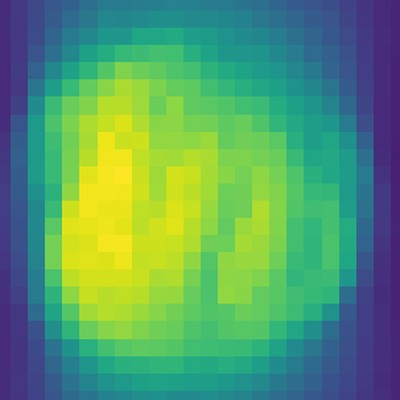
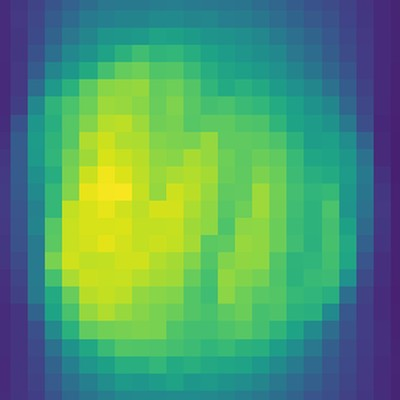
Docs: hidden-object reconstruction with the prototype's exact settings
The laser points and the detection-ellipse samples now come from the
prototype's closed form (the spheroid-wall intersection at equal parametric
angles, identical to its points), the sample counts are its fixed 500 / 52 /
38 / 32 (frame times measured, not matched: 5.3 / 5.3 / 5.9 / 5.3 ms on an
RTX 3090), ToF ReSTIR caps Newton at 5 iterations and the V-buffer alpha-tests,
as in the prototype. Median scores 0.0019 / 0.0174 / 0.0167 / 0.0174: on dev,
ellipsoidal path tracing samples densely enough to reconstruct the dragon as
well as the reuse renderers.

diff --git a/docs_falcorcomp/src/applications/code/nlos_reconstruction.py b/docs_falcorcomp/src/applications/code/nlos_reconstruction.py
@@ -37,19 +37,30 @@ def path_length(voxel):
 
 
 def ellipse_on_wall(focus, length, count):
-    """count points W of the wall z = 0 with |ORIGIN - W| + |W - focus| = length, at equal angles around the wall
-    point where this sum is smallest; each found by bisection along its direction."""
-    t = ORIGIN[2] / (ORIGIN[2] + focus[2])
-    center = np.array([ORIGIN[0] + t * (focus[0] - ORIGIN[0]), ORIGIN[1] + t * (focus[1] - ORIGIN[1]), 0.0])
-    angles = 2.0 * np.pi * np.arange(count) / count
-    directions = np.stack([np.cos(angles), np.sin(angles), np.zeros(count)], axis=1)
-    near, far = np.zeros(count), np.full(count, length)
-    for _ in range(50):
-        middle = 0.5 * (near + far)
-        points = center + middle[:, None] * directions
-        inside = np.linalg.norm(points - ORIGIN, axis=1) + np.linalg.norm(points - focus, axis=1) < length
-        near, far = np.where(inside, middle, near), np.where(inside, far, middle)
-    return center + near[:, None] * directions
+    """count points W of the wall z = 0 with |ORIGIN - W| + |W - focus| = length: the intersection of the wall with
+    the spheroid of foci ORIGIN and focus, at equal parametric angles of the ellipse."""
+    axis = focus - ORIGIN
+    distance = np.linalg.norm(axis)
+    semi_major = 0.5 * length
+    semi_minor_sq = semi_major ** 2 - (0.5 * distance) ** 2
+    # The spheroid as (X - M)^T A (X - M) = 1, in a frame whose z axis joins the foci.
+    z_axis = axis / distance
+    helper = np.array([1.0, 0.0, 0.0]) if abs(z_axis[0]) <= 0.9 else np.array([0.0, 1.0, 0.0])
+    x_axis = helper - np.dot(helper, z_axis) * z_axis
+    x_axis /= np.linalg.norm(x_axis)
+    rotation = np.stack([x_axis, np.cross(z_axis, x_axis), z_axis], axis=1)
+    A = rotation @ np.diag([1 / semi_minor_sq, 1 / semi_minor_sq, 1 / semi_major ** 2]) @ rotation.T
+    middle = 0.5 * (ORIGIN + focus)
+    # On the wall z = 0: u^T B u + 2 g^T u + k = 0 with u = (x, y), an ellipse with center c and axes from B.
+    B, b, a = A[:2, :2], A[:2, 2], A[2, 2]
+    g = -(B @ middle[:2]) - middle[2] * b
+    k = middle[:2] @ B @ middle[:2] + 2 * middle[2] * (b @ middle[:2]) + middle[2] ** 2 * a - 1.0
+    center = -np.linalg.solve(B, g)
+    eigenvalues, eigenvectors = np.linalg.eigh(B / -(k - g @ np.linalg.solve(B, g)))
+    radii = 1.0 / np.sqrt(eigenvalues)
+    angles = np.linspace(0.0, 2.0 * np.pi, count, endpoint=False)
+    uv = center + np.stack([radii[0] * np.cos(angles), radii[1] * np.sin(angles)], axis=1) @ eigenvectors.T
+    return np.column_stack([uv, np.zeros(count)])
 
 
 def to_pixels(points):
@@ -86,14 +97,15 @@ METHODS = {
     "Ellipsoidal + naive reuse": ("TimeGatedReSTIRInline",
                                   {"samplingMethod": "ellipsoidal", **REUSE, "shiftMappingMethod": "no"}),
     "Ellipsoidal + ToF ReSTIR": ("TimeGatedReSTIRInline",
-                                 {"samplingMethod": "ellipsoidal", **REUSE, "shiftMappingMethod": "ray_trace"}),
+                                 {"samplingMethod": "ellipsoidal", **REUSE, "shiftMappingMethod": "ray_trace",
+                                  "NewtonMaxIteration": 5}),
 }
 
 
 def create_graph(method, spp):
     tracer, options = METHODS[method]
     graph = testbed.create_render_graph("NLOS")
-    graph.create_pass("VBuffer", "VBufferRT", {"samplePattern": "Center", "sampleCount": 1})
+    graph.create_pass("VBuffer", "VBufferRT", {"samplePattern": "Center", "sampleCount": 1, "useAlphaTest": True})
     graph.create_pass("Laser", "LaserLight", {"laserPosition": ORIGIN.tolist(), "laserDirection": [1.0, 0.0, -4.0],
                                               "laserPower": [100.0, 100.0, 100.0], "laserAngle": 0.0})
     graph.create_pass("Tracer", tracer, {"samplesPerPixel": spp, "maxBounces": 2,
@@ -139,24 +151,11 @@ def scan(method, spp, voxels=ORDER, record=True):
     return 1000.0 * float(np.mean(times[LASER_POINTS:])), samples, shown  # the first voxel warms up
 
 
-# 5. Match the frame time: ToF ReSTIR keeps 32 spp, the others are adjusted on the first 50 voxels
-SPP = {"Path tracing": 520, "Ellipsoidal path tracing": 54, "Ellipsoidal + naive reuse": 35,
-       "Ellipsoidal + ToF ReSTIR": 32}  # equal time on an RTX 3090: the starting points
-CALIBRATION, TOLERANCE = ORDER[:50], 0.05
-target = scan("Ellipsoidal + ToF ReSTIR", SPP["Ellipsoidal + ToF ReSTIR"], CALIBRATION, record=False)[0]
-FRAME_MS = {"Ellipsoidal + ToF ReSTIR": target}
-print(f"Ellipsoidal + ToF ReSTIR: {SPP['Ellipsoidal + ToF ReSTIR']} spp, {target:.2f} ms per frame")
-for method in ["Path tracing", "Ellipsoidal path tracing", "Ellipsoidal + naive reuse"]:
-    trials, spp = {}, SPP[method]
-    for attempt in range(4):  # the starting spp, then up to three adjustments
-        trials[spp] = scan(method, spp, CALIBRATION, record=False)[0]
-        if abs(trials[spp] / target - 1.0) <= TOLERANCE:
-            break
-        spp = max(1, round(spp * target / trials[spp]))
-        if spp in trials:
-            break
-    SPP[method] = min(trials, key=lambda count: abs(trials[count] - target))
-    FRAME_MS[method] = trials[SPP[method]]
+# 5. Measure the frame time of every renderer, on the first 50 voxels
+SPP = {"Path tracing": 500, "Ellipsoidal path tracing": 52, "Ellipsoidal + naive reuse": 38,
+       "Ellipsoidal + ToF ReSTIR": 32}  # samples per pixel and frame, of about equal frame time
+FRAME_MS = {method: scan(method, SPP[method], ORDER[:50], record=False)[0] for method in METHODS}
+for method in METHODS:
     print(f"{method}: {SPP[method]} spp, {FRAME_MS[method]:.2f} ms per frame")
 
 start = time.perf_counter()

diff --git a/docs_falcorcomp/src/applications/nlos_reconstruction.md b/docs_falcorcomp/src/applications/nlos_reconstruction.md
@@ -4,7 +4,8 @@ Non-line-of-sight (NLOS) imaging recovers objects that the camera cannot see, fr
 a visible wall, the *relay wall*, and comes back the same way. In scanning NLOS (Pediredla et al. 2019), a laser lights
 one point of the wall at a time and a time-gated camera keeps only the light whose path has a chosen length, so that
 the light focuses, in time, on one point of the hidden scene. This page scans a dragon out of the camera's view, voxel
-by voxel, renders the scan with four time-gated renderers at equal frame time, and reconstructs the dragon from each.
+by voxel, renders the scan with four time-gated renderers at about equal frame time, and reconstructs the dragon from
+each.
 
 ```{image} images/nlos_reconstruction.jpg
 :alt: A frame of each renderer, and the dragon reconstructed from each renderer's scan
@@ -42,8 +43,9 @@ happen to reach with the same path length.
 - **Ellipsoidal + ToF ReSTIR**: the same, with the shift `ray_trace`, which moves the reused path's vertex on the
   dragon so that the path keeps a length in the gate (see [ToF rendering with ReSTIR](../tutorials/restir_index.md)).
 
-ToF ReSTIR renders 32 samples per pixel per frame; the script adjusts the others to the same frame time on the first
-50 voxels of the scan.
+The renderers take 500, 52, 38 and 32 samples per pixel per frame, in this order, for about the same time per frame,
+which the script measures on the first 50 voxels of the scan. ToF ReSTIR stops its Newton solves after 5 iterations
+(`NewtonMaxIteration`).
 
 ## The score
 
@@ -93,14 +95,14 @@ keep ReSTIR's history, so temporal reuse runs along the whole scan.
 ```{literalinclude} code/nlos_reconstruction.py
 :language: python
 :start-after: "# 4. Render the scan"
-:end-before: "# 5. Match the frame time"
+:end-before: "# 5. Measure the frame time"
 ```
 
-## 5. Match the frame time
+## 5. Measure the frame time
 
 ```{literalinclude} code/nlos_reconstruction.py
 :language: python
-:start-after: "# 5. Match the frame time"
+:start-after: "# 5. Measure the frame time"
 :end-before: "# 6. Score every voxel"
 ```
 
@@ -114,7 +116,7 @@ keep ReSTIR's history, so temporal reuse runs along the whole scan.
 
 ## 7. Show a frame and the reconstructions
 
-The dragon's outline comes from its mesh: the voxels that hold a vertex.
+The dragon's outline comes from its mesh: the cells of a grid 4 times finer than the voxels that hold a vertex.
 
 ```{literalinclude} code/nlos_reconstruction.py
 :language: python
@@ -130,20 +132,20 @@ The dragon's outline comes from its mesh: the voxels that hold a vertex.
   - ms per frame
   - Median score
 * - Path tracing
-  - 520
-  - 5.4
-  - 0.0020
+  - 500
+  - 5.3
+  - 0.0019
 * - Ellipsoidal path tracing
-  - 54
-  - 5.4
-  - 0.0173
+  - 52
+  - 5.3
+  - 0.0174
 * - Ellipsoidal + naive reuse
-  - 35
-  - 5.4
-  - 0.0165
+  - 38
+  - 5.9
+  - 0.0167
 * - Ellipsoidal + ToF ReSTIR
   - 32
-  - 5.4
+  - 5.3
   - 0.0174
 ```
 

diff --git a/docs_falcorcomp/src/applications/tof_index.md b/docs_falcorcomp/src/applications/tof_index.md
@@ -24,7 +24,7 @@ measured on an NVIDIA GeForce RTX 3090 with Vulkan.
 :link: nlos_reconstruction
 :link-type: doc
 
-Scan a hidden dragon voxel by voxel through a relay wall, with four time-gated renderers at equal frame time.
+Scan a hidden dragon voxel by voxel through a relay wall, with four time-gated renderers.
 ```
 
 ```{grid-item-card} Navigating around a corner
